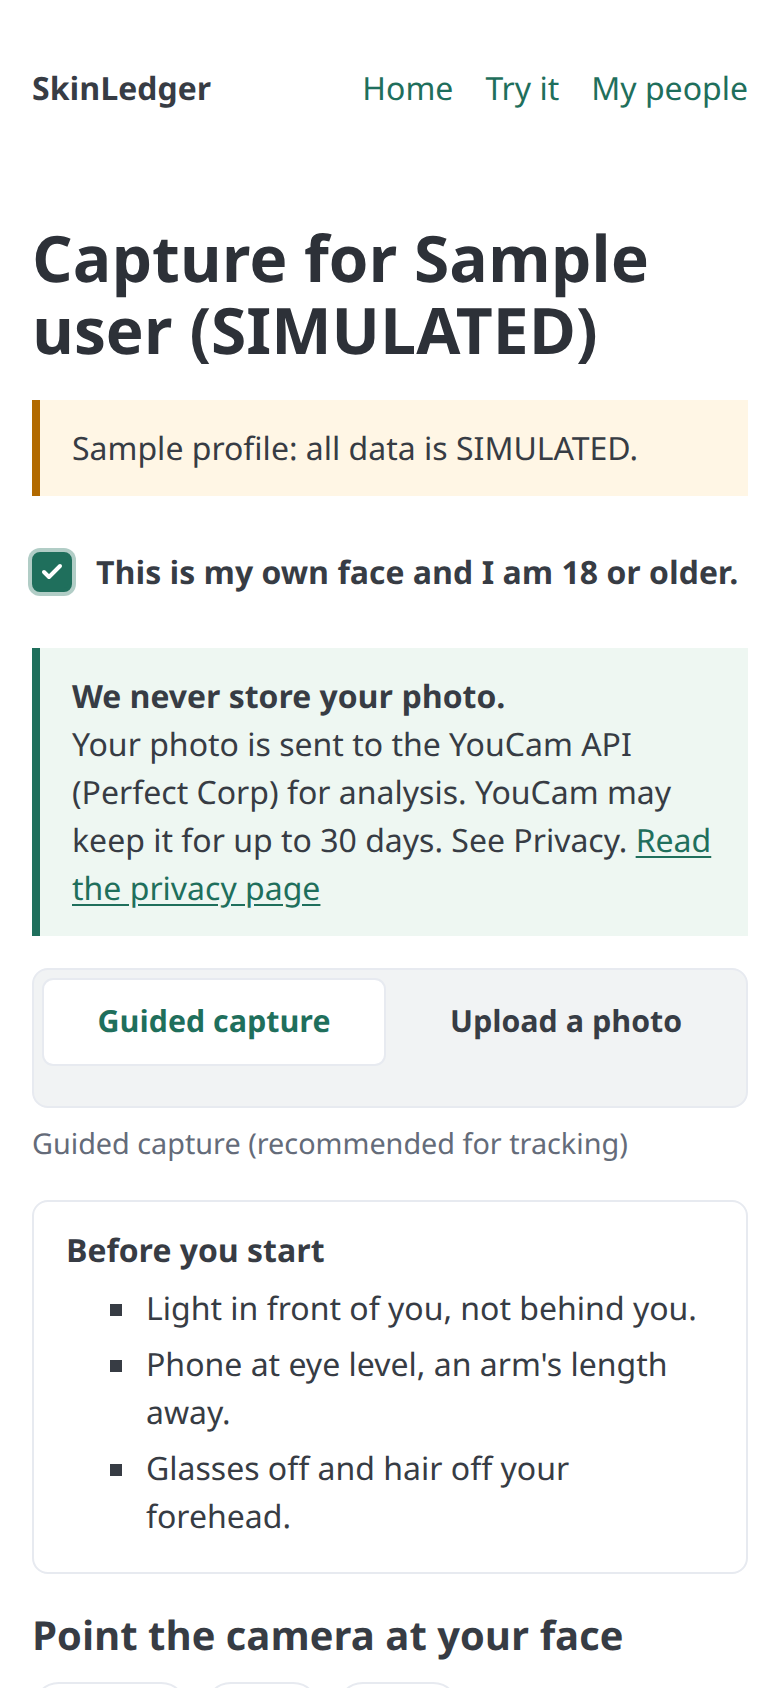
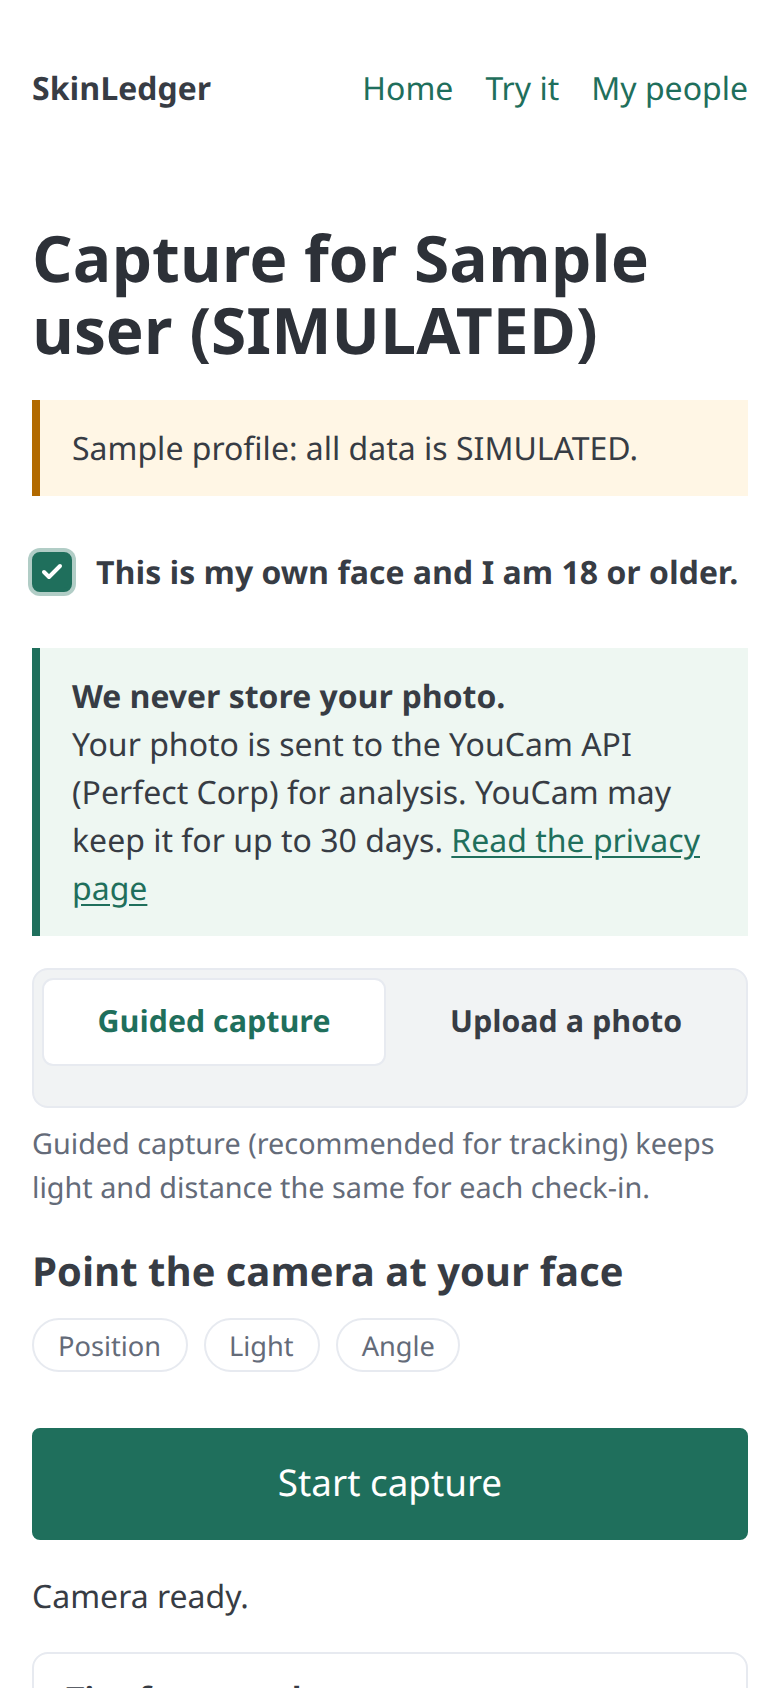
P16b-3a: capture order, upload tips, error panel

diff --git a/src/skinledger/web/static/capture.js b/src/skinledger/web/static/capture.js
@@ -208,15 +208,20 @@
       URL.revokeObjectURL(objectUrl);
       objectUrl = null;
     }
+    previewImage.removeAttribute("src");
+    preview.hidden = true;
   }
 
   function setPreview(blob) {
     revokePreview();
     objectUrl = URL.createObjectURL(blob);
+    // Show the frame only once the image has decoded; no grey slab before that.
+    previewImage.onload = function () {
+      preview.hidden = false;
+    };
     previewImage.src = objectUrl;
     overlay.removeAttribute("src");
     overlay.hidden = true;
-    preview.hidden = false;
   }
 
   window.addEventListener("pagehide", revokePreview);
@@ -230,18 +235,21 @@
 
   function showError(message, retry) {
     statusBox.innerHTML = "";
+    var box = document.createElement("div");
+    box.className = "capture-error";
+    box.setAttribute("role", "alert");
     var paragraph = document.createElement("p");
-    paragraph.setAttribute("role", "alert");
     paragraph.textContent = message;
-    statusBox.append(paragraph);
+    box.append(paragraph);
     if (typeof retry === "function") {
       var button = document.createElement("button");
       button.type = "button";
       button.className = "secondary";
       button.textContent = msgRetry;
       button.addEventListener("click", retry);
-      statusBox.append(button);
+      box.append(button);
     }
+    statusBox.append(box);
   }
 
   // Every API call gets a hard 30 s ceiling so a stalled request shows a
@@ -870,12 +878,6 @@
     }
     listenersRegistered = true;
     clearKitTimeout();
-    if (kitTimedOut) {
-      kitTimedOut = false;
-      if (help) {
-        help.textContent = "Camera ready. Tick the checkbox, then start.";
-      }
-    }
     if (asyncInitTimer !== null) {
       window.clearTimeout(asyncInitTimer);
       asyncInitTimer = null;
@@ -903,9 +905,13 @@
 
     kitReady = kitIsReady();
     updateButtons();
-    if (help && !help.textContent) {
-      help.textContent = "Camera ready. Tick the checkbox, then start.";
+    if (
+      help &&
+      (!help.textContent || help.textContent === "Guided camera is still loading…" || kitTimedOut)
+    ) {
+      help.textContent = "Camera ready.";
     }
+    kitTimedOut = false;
     clientLog(
       "info",
       "kit_ready",

diff --git a/src/skinledger/web/static/app.css b/src/skinledger/web/static/app.css
@@ -21,7 +21,6 @@
   --sl-neutral: #f1f3f4;
   --sl-neutral-ink: #3c4043;
   --sl-neutral-line: #e8eaed;
-  --sl-preview: #d9d9d9;
 
   --sl-accent: #1f6f5c;
   --sl-accent-ink: #1f6f5c;
@@ -88,7 +87,6 @@
     --sl-neutral: #232a33;
     --sl-neutral-ink: #cdd3db;
     --sl-neutral-line: #2e3641;
-    --sl-preview: #232a33;
 
     --sl-accent: #1f6f5c;
     --sl-accent-ink: #7fd0b6;
@@ -173,7 +171,6 @@ main.container {
   width: 100%;
   max-width: 420px;
   aspect-ratio: 3 / 4;
-  background: var(--sl-preview);
   overflow: hidden;
 }
 
@@ -332,14 +329,67 @@ main.container {
 }
 
 .capture-language summary {
+  display: flex;
+  align-items: center;
+  min-height: 44px;
   cursor: pointer;
-  padding-block: 0.5rem;
 }
 
-.capture-upload-tip {
-  margin-top: 0.75rem;
-  font-size: 0.9rem;
-  color: var(--sl-muted);
+.capture-tips {
+  margin-top: 1rem;
+  border: 1px solid var(--sl-rule);
+  border-radius: 0.5rem;
+  padding: 0 1rem;
+}
+
+.capture-tips summary {
+  display: flex;
+  align-items: center;
+  min-height: 44px;
+  cursor: pointer;
+  font-weight: 600;
+}
+
+.capture-tips ul {
+  margin: 0 0 0.75rem;
+}
+
+.tips-card p {
+  margin: 0.35rem 0 0;
+}
+
+.capture-error {
+  border-left: 4px solid var(--sl-danger);
+  background: var(--sl-danger-wash);
+  padding: 0.75rem 1rem;
+  margin-block: 0.75rem;
+}
+
+.capture-error p {
+  margin: 0 0 0.6rem;
+}
+
+.capture-error button {
+  margin: 0;
+}
+
+/* Secondary outline treatment for the native file picker. */
+input[type="file"]::file-selector-button {
+  min-height: 44px;
+  margin-right: 0.75rem;
+  padding: 0.55rem 1rem;
+  border: 1px solid var(--sl-accent);
+  border-radius: var(--pico-border-radius);
+  background: transparent;
+  color: var(--sl-accent-ink);
+  font: inherit;
+  font-weight: 600;
+  cursor: pointer;
+  transition: background-color 150ms ease, color 150ms ease;
+}
+
+input[type="file"]::file-selector-button:hover {
+  background: var(--sl-accent-wash);
 }
 
 /* -- P08 timeline ---------------------------------------------------------- */

diff --git a/src/skinledger/web/templates/capture.html b/src/skinledger/web/templates/capture.html
@@ -62,17 +62,6 @@
            data-tab-panel="guided" tabindex="0">
     <p class="capture-tab-note">{{ capture_tab_note }}</p>
 
-    <div class="tips-card" id="capture-tips">
-      <strong>Before you start</strong>
-      <ul>
-        {% for tip in capture_tips %}
-        <li>{{ tip }}</li>
-        {% endfor %}
-      </ul>
-    </div>
-
-    <div id="YMK-module"></div>
-
     <p id="baseline-step" {% if baseline_step is none %}hidden{% endif %}>
       {% if baseline_step == 1 %}
       Baseline: analysis 1 of 2
@@ -80,6 +69,8 @@
       Analysis 2 of 2 (same place, same light)
       {% endif %}
     </p>
+
+    <div id="YMK-module"></div>
 
     <div
       id="capture-guidance"
@@ -111,6 +102,15 @@
     </p>
     {% endif %}
 
+    <details class="capture-tips" id="capture-tips">
+      <summary>{{ capture_tips_title }}</summary>
+      <ul>
+        {% for tip in capture_tips %}
+        <li>{{ tip }}</li>
+        {% endfor %}
+      </ul>
+    </details>
+
     <details class="capture-language">
       <summary>Camera language</summary>
       <label>Language
@@ -125,19 +125,14 @@
   {% if allow_upload %}
   <section id="panel-upload" role="tabpanel" aria-labelledby="tab-upload"
            data-tab-panel="upload" hidden tabindex="0">
-    <p class="capture-tab-note">Quick try: upload a photo</p>
-    <div class="tips-card">
-      <strong>Before you start</strong>
-      <ul>
-        {% for tip in capture_tips %}
-        <li>{{ tip }}</li>
-        {% endfor %}
-      </ul>
-    </div>
+    <p class="capture-tab-note">{{ capture_upload_note }}</p>
     <label for="photo">Photo of your face</label>
     <input type="file" id="photo" accept="image/*" capture="user">
     <button type="button" id="send-upload" disabled>Analyze this photo</button>
-    <p class="capture-upload-tip">{{ upload_tip }}</p>
+    <div class="tips-card">
+      <strong>{{ upload_tips_title }}</strong>
+      <p>{{ upload_tip }}</p>
+    </div>
   </section>
   {% endif %}
 

diff --git a/tests/test_capture_page.py b/tests/test_capture_page.py
@@ -151,6 +151,8 @@ def test_capture_page_has_exact_copy_and_baseline_step(env, web):
     assert copy.ATTESTATION in response.text
     assert copy.DISCLAIMER in response.text
     assert copy.PRIVACY_NOTE in response.text
+    assert "See Privacy." not in response.text
+    assert "Read the privacy page" in response.text
     assert copy.UPLOAD_TIP in response.text
     assert "Guided capture (recommended for tracking)" in response.text
     assert "Quick try: upload a photo" in response.text
@@ -507,7 +509,7 @@ def test_fallback_is_hidden_when_upload_is_disabled(env, web):
     assert 'id="capture-fallback"' not in response.text
 
 
-def test_three_tips_appear_on_both_tabs(env, web):
+def test_camera_tips_are_guided_only_and_upload_tip_is_upload_only(env, web):
     person_id = create_profile(web)
 
     response = web.get(f"/people/{person_id}/capture")
@@ -515,8 +517,24 @@ def test_three_tips_appear_on_both_tabs(env, web):
     assert len(copy.CAPTURE_TIPS) == 3
     rendered = html.unescape(response.text)
     for tip in copy.CAPTURE_TIPS:
-        assert rendered.count(tip) == 2, tip
+        assert rendered.count(tip) == 1, tip
+    assert copy.UPLOAD_TIP in response.text
     assert 'id="capture-tips"' in response.text
+    assert copy.CAPTURE_TIPS_TITLE in response.text
+    assert copy.UPLOAD_TIPS_TITLE in response.text
+
+
+def test_capture_primary_action_comes_before_tips(env, web):
+    person_id = create_profile(web)
+
+    response = web.get(f"/people/{person_id}/capture")
+
+    start = response.text.index('id="start-capture"')
+    guided_tips = response.text.index('id="capture-tips"')
+    assert start < guided_tips
+    upload = response.text.index('id="send-upload"')
+    upload_tips = response.text.index(copy.UPLOAD_TIPS_TITLE)
+    assert upload < upload_tips
 
 
 def test_upload_input_opens_the_phone_camera(env, web):

diff --git a/src/skinledger/copy.py b/src/skinledger/copy.py
@@ -50,7 +50,7 @@ PRIVACY_LEAD = "We never store your photo."
 
 PRIVACY_NOTE = (
     "Your photo is sent to the YouCam API (Perfect Corp) for analysis. "
-    "YouCam may keep it for up to 30 days. See Privacy."
+    "YouCam may keep it for up to 30 days."
 )
 
 # P16b-3: capture page status and recovery copy. The browser applies these
@@ -64,11 +64,17 @@ CAPTURE_LOST_TRACK = (
 )
 CAPTURE_UPLOADING = "Uploading…"
 CAPTURE_RETRY = "Retry"
-CAPTURE_TAB_NOTE = "Guided capture (recommended for tracking)"
+CAPTURE_TAB_NOTE = (
+    "Guided capture (recommended for tracking) keeps light and distance the same for each check-in."
+)
+CAPTURE_UPLOAD_NOTE = (
+    "Quick try: upload a photo from your device. Lighting varies, so use it for a first look."
+)
+CAPTURE_TIPS_TITLE = "Tips for a good capture"
+UPLOAD_TIPS_TITLE = "Before you upload"
 
 UPLOAD_TIP = (
-    "Use a recent, well-lit, front-facing photo of your own face, no filters. For weekly "
-    "tracking, use the guided capture — same light, same distance."
+    "Use a recent, well-lit, front-facing photo of your own face, no filters."
 )
 
 # P16a: guided-capture guidance. One instruction is shown at a time, chosen in

diff --git a/src/skinledger/web/templating.py b/src/skinledger/web/templating.py
@@ -24,6 +24,9 @@ templates.env.globals.update(
     capture_uploading=copy.CAPTURE_UPLOADING,
     capture_retry=copy.CAPTURE_RETRY,
     capture_tab_note=copy.CAPTURE_TAB_NOTE,
+    capture_upload_note=copy.CAPTURE_UPLOAD_NOTE,
+    capture_tips_title=copy.CAPTURE_TIPS_TITLE,
+    upload_tips_title=copy.UPLOAD_TIPS_TITLE,
     upload_tip=copy.UPLOAD_TIP,
     capture_tips=copy.CAPTURE_TIPS,
     guidance_order=",".join(copy.GUIDANCE_ORDER),
